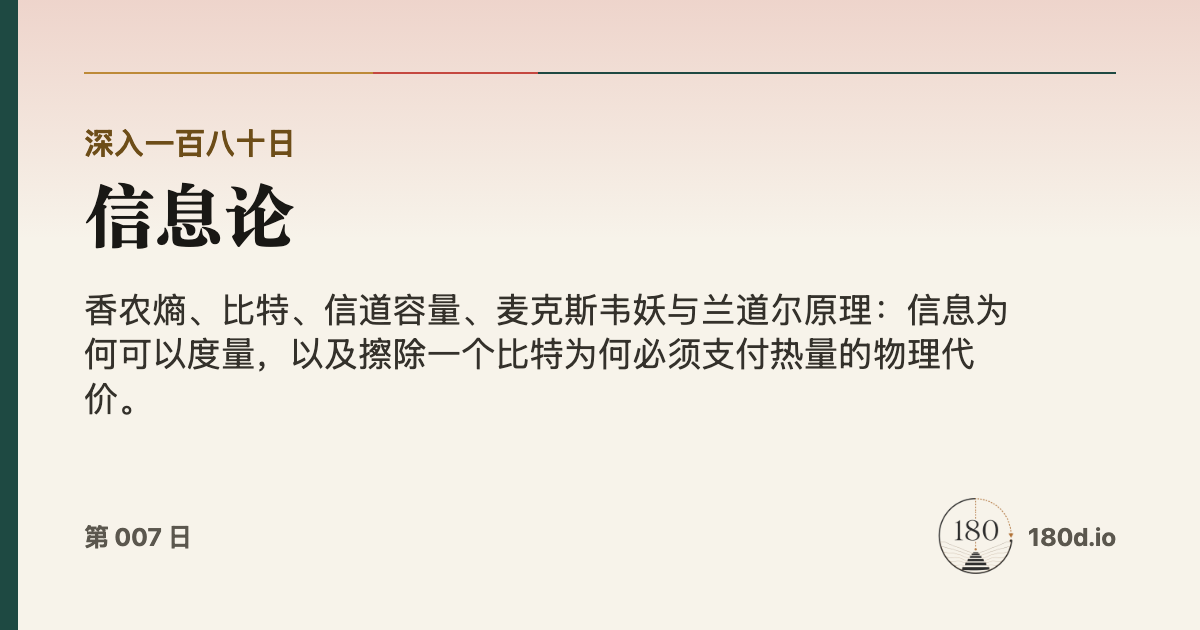
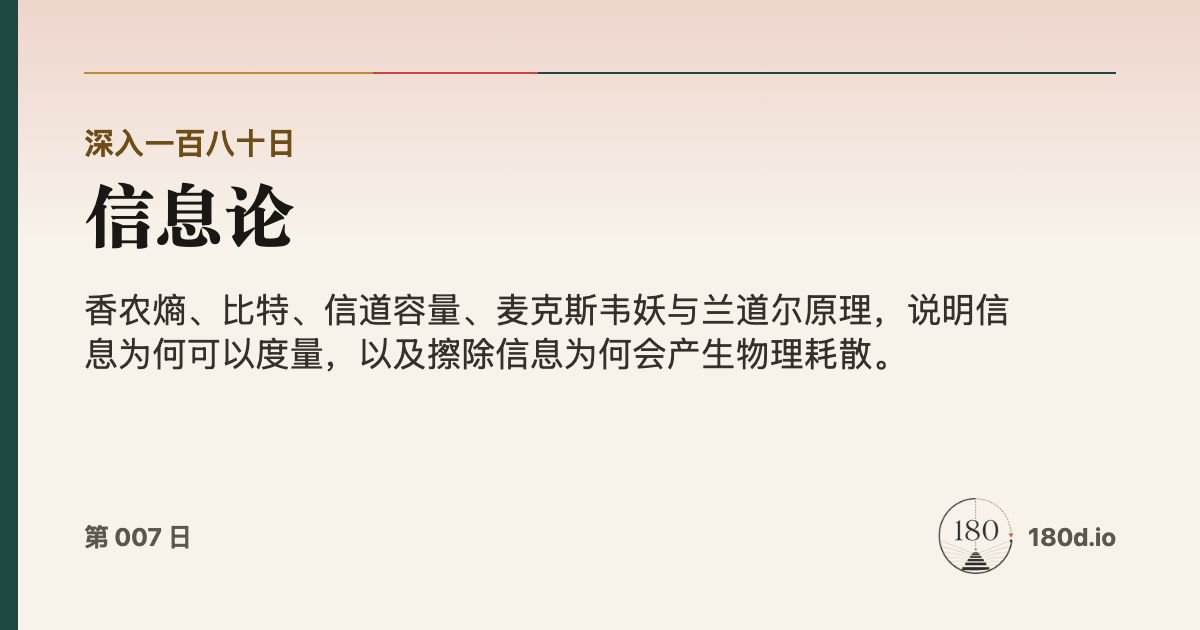
fix: align bilingual day metadata

Changed region(s): [[0.0617, 0.5127, 0.4933, 0.6635], [0.5242, 0.4524, 0.8633, 0.6032]]

diff --git a/src/zh/days/day-006-statistics-and-the-art-of-not-fooling-yourself.md b/src/zh/days/day-006-statistics-and-the-art-of-not-fooling-yourself.md
@@ -4,7 +4,7 @@ tags: zhDay
 locale: zh
 day: 6
 title: "统计学与避免自欺的艺术"
-summary: "从 p 值操纵、效应量、分岔路径到多元宇宙分析，理解统计工具如何既会放大自欺，也能帮助科学抵御自欺。"
+summary: "p 值操纵、p 值、置信区间、效应量与多元宇宙分析，展示统计学如何保护探究免于自欺。"
 block: 知识与推理的根基
 slug: statistics-and-the-art-of-not-fooling-yourself
 day_path: 006-statistics-and-the-art-of-not-fooling-yourself

diff --git a/src/zh/days/day-004-probability-as-extended-logic.md b/src/zh/days/day-004-probability-as-extended-logic.md
@@ -4,7 +4,7 @@ tags: zhDay
 locale: zh
 day: 4
 title: "概率成为逻辑的扩展"
-summary: "从蒙提霍尔问题的直觉陷阱到贝叶斯定理的更新准则，我们将概率视为处理不确定性的唯一逻辑，并见证 e 值对假设检验的重塑。"
+summary: "蒙提霍尔问题与贝叶斯定理展示了部分信念的逻辑，而 e 值则用下注来检验证据。"
 block: 知识与推理的根基
 slug: probability-as-extended-logic
 day_path: 004-probability-as-extended-logic

diff --git a/src/zh/days/day-007-information-theory.md b/src/zh/days/day-007-information-theory.md
@@ -4,7 +4,7 @@ tags: zhDay
 locale: zh
 day: 7
 title: "信息论"
-summary: "香农熵、比特、信道容量、麦克斯韦妖与兰道尔原理：信息为何可以度量，以及擦除一个比特为何必须支付热量的物理代价。"
+summary: "香农熵、比特、信道容量、麦克斯韦妖与兰道尔原理，说明信息为何可以度量，以及擦除信息为何会产生物理耗散。"
 block: 知识与推理的根基
 slug: information-theory
 day_path: 007-information-theory

diff --git a/src/zh/days/day-002-scientific-method-and-demarcation.md b/src/zh/days/day-002-scientific-method-and-demarcation.md
@@ -4,7 +4,7 @@ tags: zhDay
 locale: zh
 day: 2
 title: "科学方法与划界问题"
-summary: "从休谟的归纳陷阱到波普尔的证伪之刃，再到现代复现危机，我们追问科学何以成其为科学。"
+summary: "休谟、波普尔、库恩、拉卡托斯与复现危机，共同检验科学如何赢得信任。"
 block: 知识与推理的根基
 slug: scientific-method-and-demarcation
 day_path: 002-scientific-method-and-demarcation

diff --git a/src/days/day-006-statistics-and-the-art-of-not-fooling-yourself.md b/src/days/day-006-statistics-and-the-art-of-not-fooling-yourself.md
@@ -3,6 +3,7 @@ layout: layouts/day.njk
 tags: day
 day: 6
 title: "Statistics & the Art of Not Fooling Yourself"
+display_title: "Statistics &amp; the Art of <em>Not Fooling Yourself</em>"
 summary: "P-hacking, p-values, confidence intervals, effect sizes, and multiverse analysis show how statistics can protect inquiry from self-deception."
 block: Foundations of Knowledge & Reasoning
 slug: statistics-and-the-art-of-not-fooling-yourself
